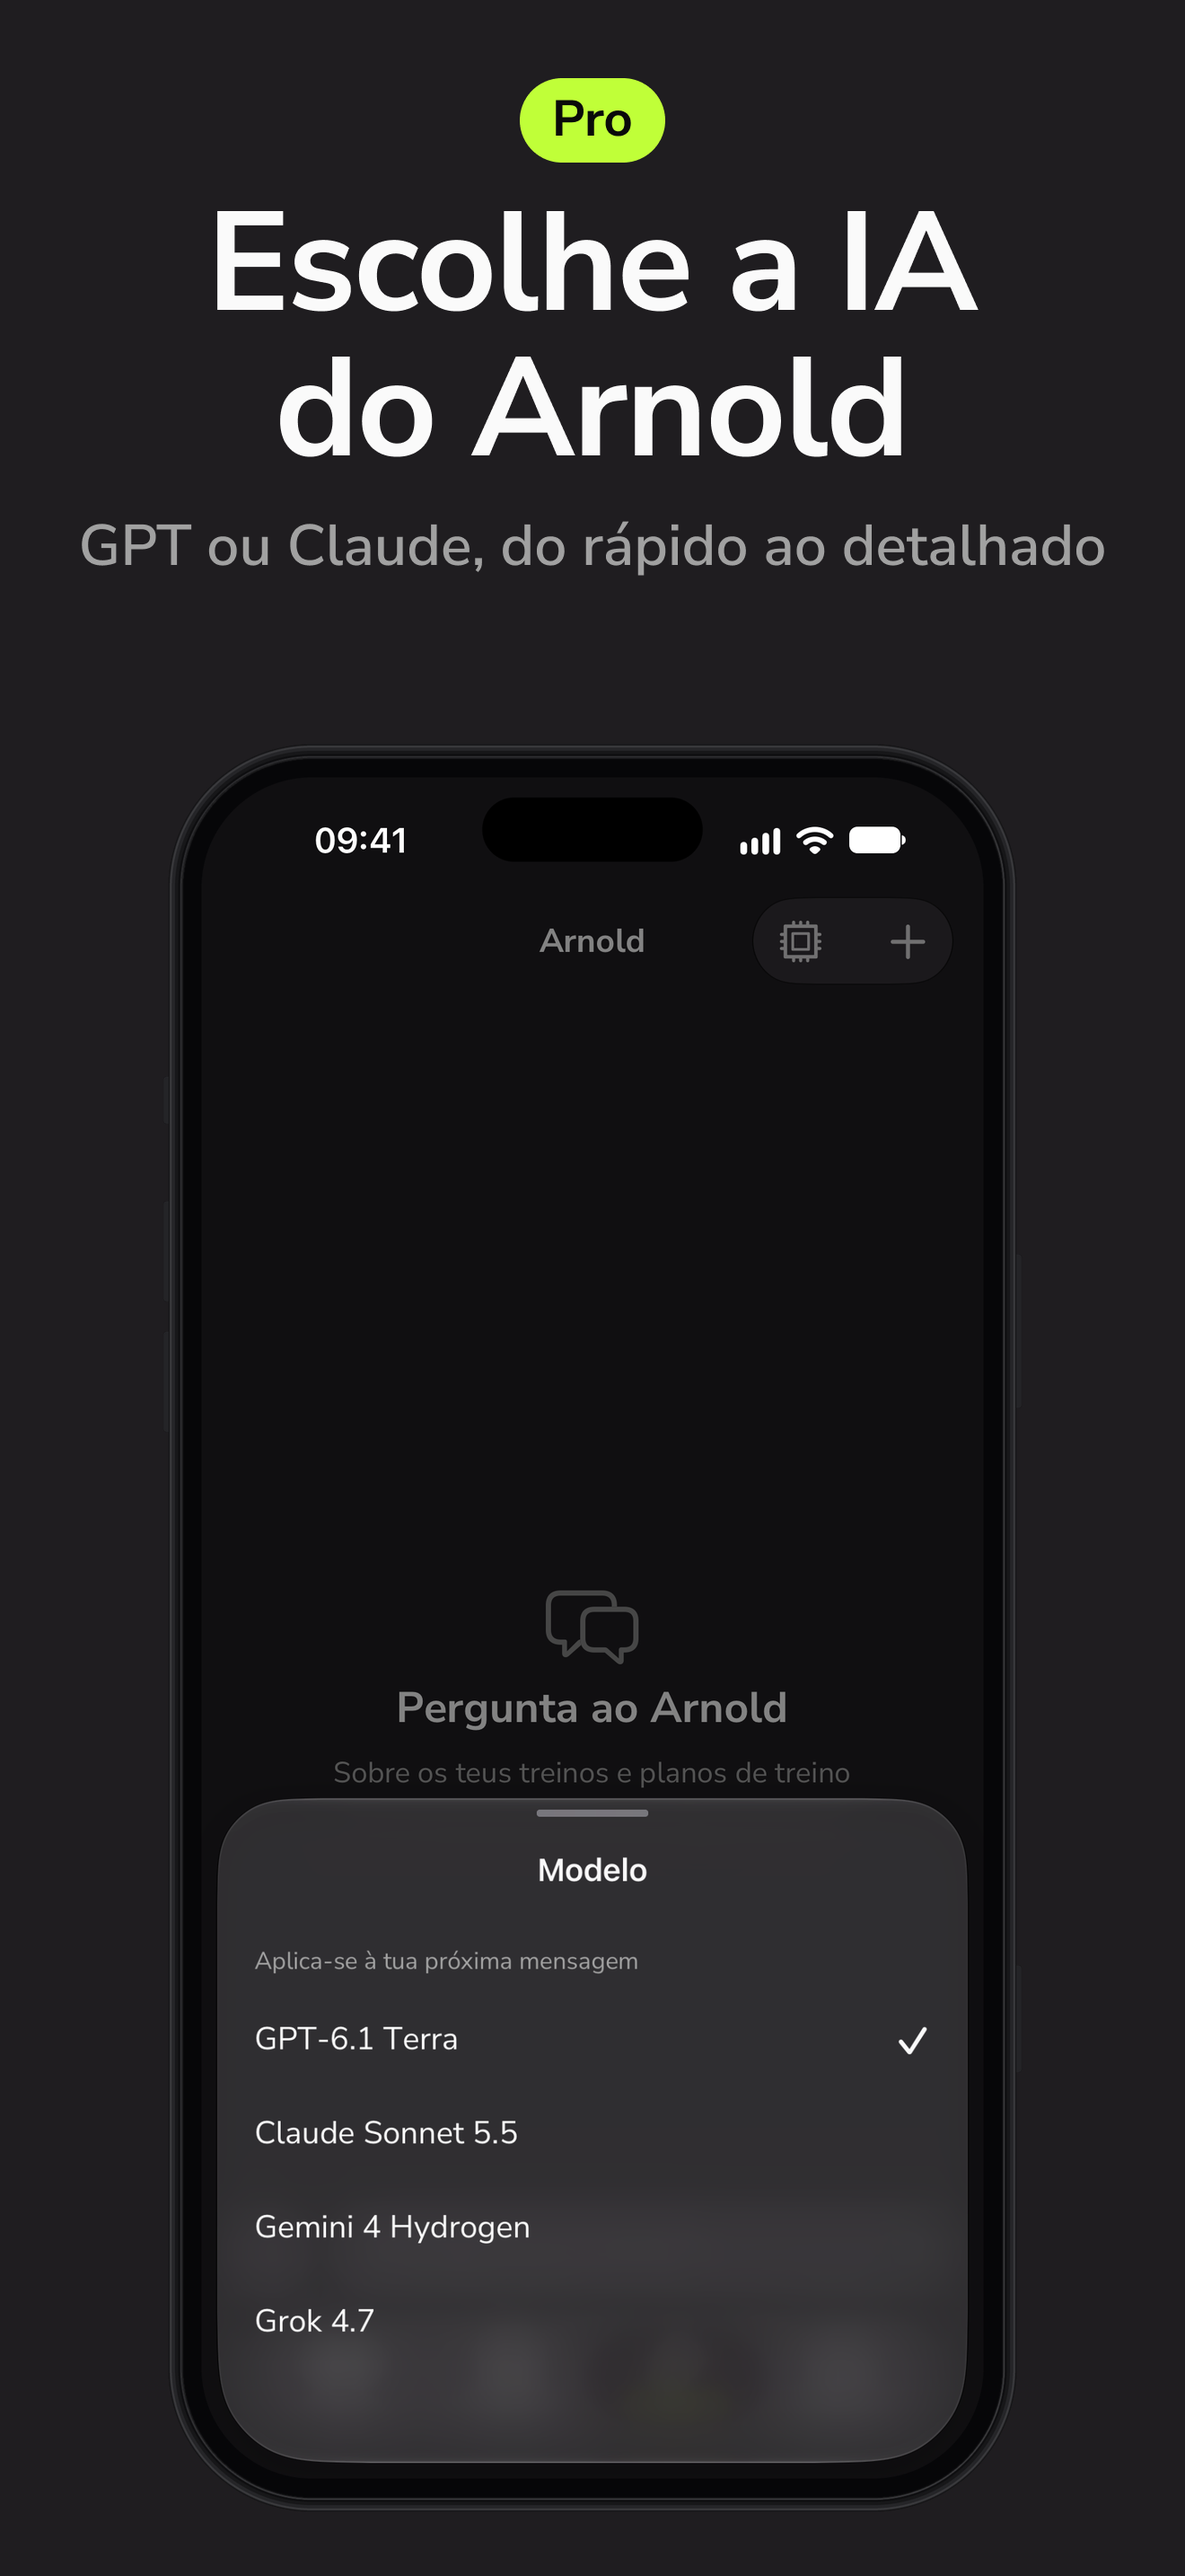
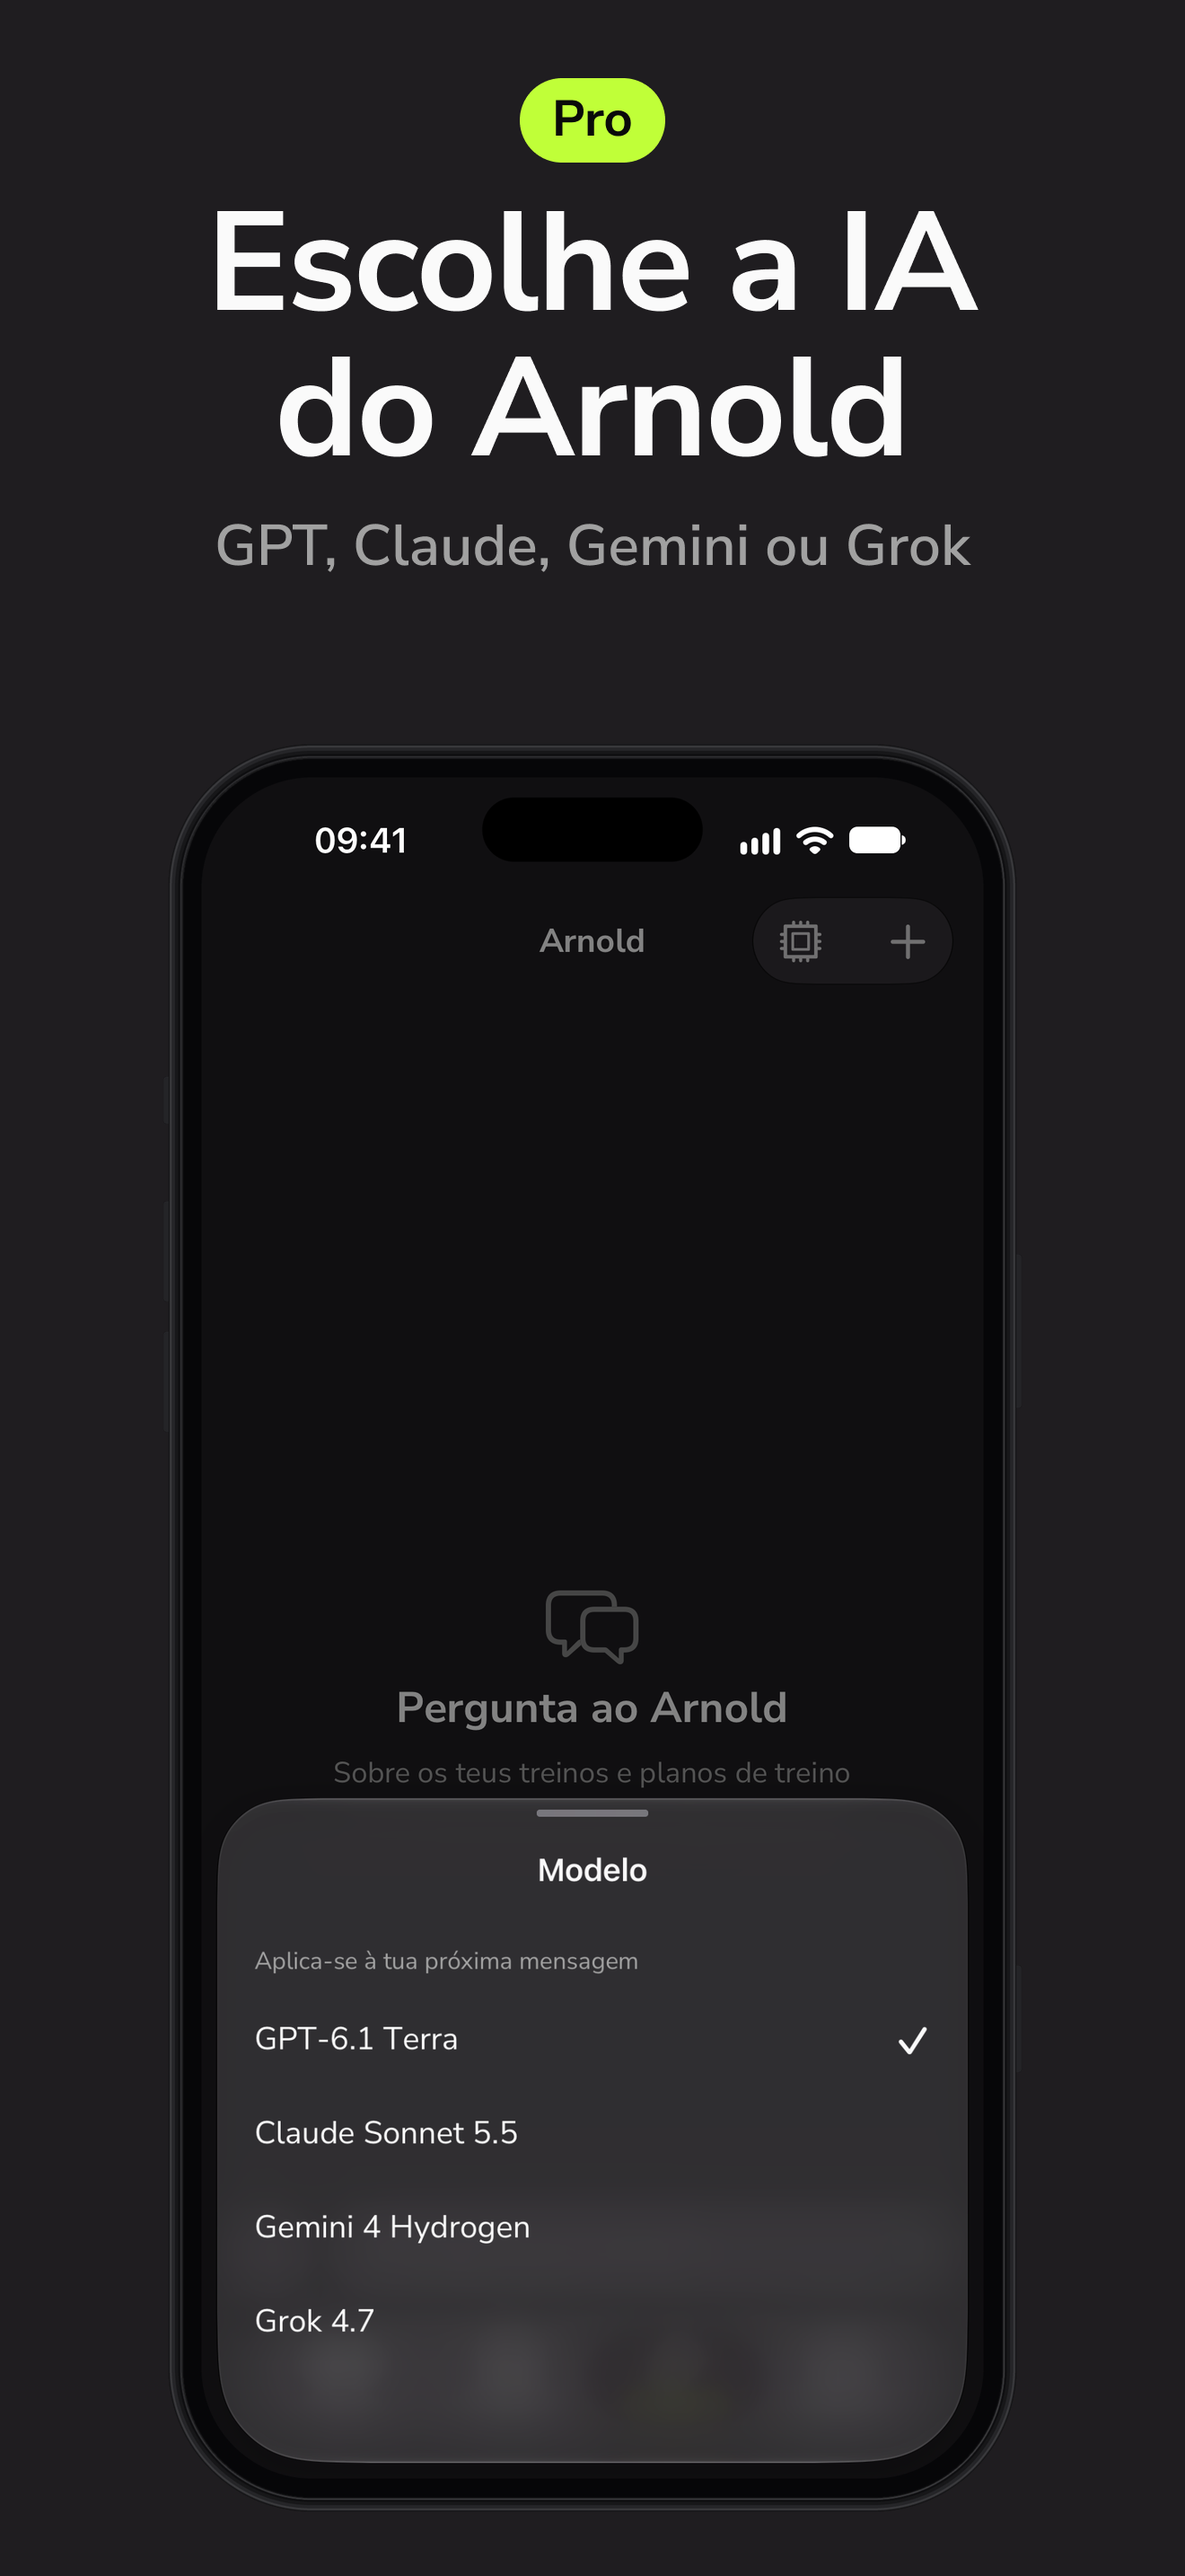
chore(marketing): scene 10's caption names all four Arnold models
The subline said GPT or Claude while the model picker lists four. It now
reads "GPT, Claude, Gemini or Grok" in all 15 languages: rewritten in Figma,
the caption exported again and scene 10 recomposed. Scenes 01–09 recompose
byte-identical, and the phone pixels of scene 10 are unchanged.

diff --git a/marketing/screenshots/app-store/README.md b/marketing/screenshots/app-store/README.md
@@ -8,7 +8,7 @@ The bare and framed captures in `../iphone/` and `../framed/` are source materia
 
 ## Making a Screenshot set
 
-A set's images are exported from the App Store frames in the Fitme Figma file (page AppStore Screenshots, the `App Store · <version> · EN / UK` sections). Spanish, Catalan and the eleven later locales are composed locally from caption-only Figma exports through `../compose-app-store.py`; see the marketing README's [App Store upload](../README.md#app-store-upload) section. On 2026-11-21 all 15 sets, English and Ukrainian included, were recomposed that way, with the captions cut from the previously approved exports rather than exported again (the EN / UK Figma frames still hold the older phone images). This keeps the native captures local while retaining the existing framed phone geometry. Three rules, each one a thing that has gone wrong:
+A set's images are exported from the App Store frames in the Fitme Figma file (page AppStore Screenshots, the `App Store · <version> · EN / UK` sections). Spanish, Catalan and the eleven later locales are composed locally from caption-only Figma exports through `../compose-app-store.py`; see the marketing README's [App Store upload](../README.md#app-store-upload) section. On 2026-11-21 all 15 sets, English and Ukrainian included, were recomposed that way, with the captions of scenes 01–09 cut from the previously approved exports rather than exported again, and scene 10's exported again after its subline was rewritten to name all four models (the EN / UK Figma frames still hold the older phone images). This keeps the native captures local while retaining the existing framed phone geometry. Three rules, each one a thing that has gone wrong:
 
 1. **Each frame's phone is a framed capture, not a drawn one.** The phone is an image layer holding the matching `../framed/<locale>/<scene>.png`, which already has the bezel drawn around the capture at the right place. Never draw a phone in Figma and never put a bare `../iphone/` capture inside one: the first sets shipped that way (#458) and their screens sat off-centre, spilling past the phone's right and bottom edges. See the marketing README's [App Store upload](../README.md#app-store-upload) section for the layer name and the export steps (1×, then flattened to RGB). The framed PNGs are source material and never committed here as they are: they're 1332×2748 with transparency, and a set's images are 1320×2868 flattened RGB. Their locale tags differ too (`framed/uk-UA/` feeds `uk`, and `framed/ca-ES/` feeds `ca`).
 2. **Look at every exported PNG before committing it, edges included.** The [check](#the-check) proves the size, the numbering, that each file decodes as a PNG and that it carries no transparency. It cannot see a screen sitting outside its bezel, so a green check is not a visual pass. Open each image itself — the PNG in this repo, never a Figma section screenshot or a scaled-down `node.screenshot`, which is what missed #458 — to judge what it shows. Reading the whole 1320×2868 file still shrinks it too far to judge the framing, so cut the edges as well:
@@ -28,7 +28,7 @@ Everything after this point is how the committed images are checked, staged and 
 
 ## Localized caption composition
 
-Recomposed 2026-11-21: all 15 Listing sets carry the captures of the marketing README's [Captures](../README.md#captures) run, composed locally with unchanged captions. See the [capture manifest](../capture-manifest-2026-11-21.json) for per-image hashes.
+Recomposed 2026-11-21: all 15 Listing sets carry the captures of the marketing README's [Captures](../README.md#captures) run, composed locally with unchanged captions but for scene 10, whose subline now names all four models. See the [capture manifest](../capture-manifest-2026-11-21.json) for per-image hashes.
 
 Use the caption-only sections of the [Fitme Figma file](https://www.figma.com/design/8RPWsghaJBjkkjGzPypuH0), with phone layers hidden. Export `01.png`–`10.png` at 1×, then compose with the matching already-framed native PNGs using `../compose-app-store.py`. The compositor preserves the 962 px phone width and (179, 820) placement and writes 1320×2868 flattened RGB PNGs. Do not upload the native captures to Figma. Pro badges stay on scenes 01, 04 and 10; all caption text remains editable in Figma.
 

diff --git a/marketing/screenshots/README.md b/marketing/screenshots/README.md
@@ -75,7 +75,7 @@ The site's `apps/site/public/screens/` assets are separate exports and were not 
 
 ### App Store sets
 
-All 15 Listing sets in `app-store/iphone-6.9/` were recomposed with `compose-app-store.py` from these framed captures. The captions did not change, so the caption inputs were cut from the previously approved exports: their area above y = 820 is kept byte for byte, and everything below is the flat background. All 150 images pass `node scripts/app-store-screenshots.mjs check`. Nothing was uploaded to App Store Connect.
+All 15 Listing sets in `app-store/iphone-6.9/` were recomposed with `compose-app-store.py` from these framed captures. Scenes 01–09 kept their captions, so those caption inputs were cut from the previously approved exports: their area above y = 820 is kept byte for byte, and everything below is the flat background. Scene 10's subline named only GPT and Claude, so it was rewritten in Figma in all 15 languages to name all four models ("GPT, Claude, Gemini or Grok") and that caption exported again; only its subline rows differ from the approved export. All 150 images pass `node scripts/app-store-screenshots.mjs check`. Nothing was uploaded to App Store Connect.
 
 ### Known limits
 
@@ -83,7 +83,6 @@ All 15 Listing sets in `app-store/iphone-6.9/` were recomposed with `compose-app
 - Long Japanese exercise names can break before a trailing long-vowel mark.
 - Long exercise names are cut with "…" in the PR summary rows (German, Dutch, Polish) and in the progress header (Dutch, Polish). This is the app's own truncation.
 - On the next-workout card, the "+2" muscle badge drops onto a line of its own in Ukrainian, German and Polish.
-- The App Store caption for scene 10 still says "GPT or Claude", but the picker now lists four models.
 
 ## App Store upload
 
